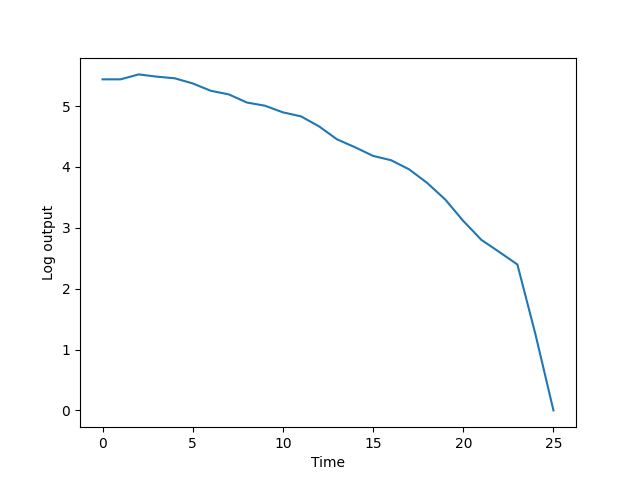
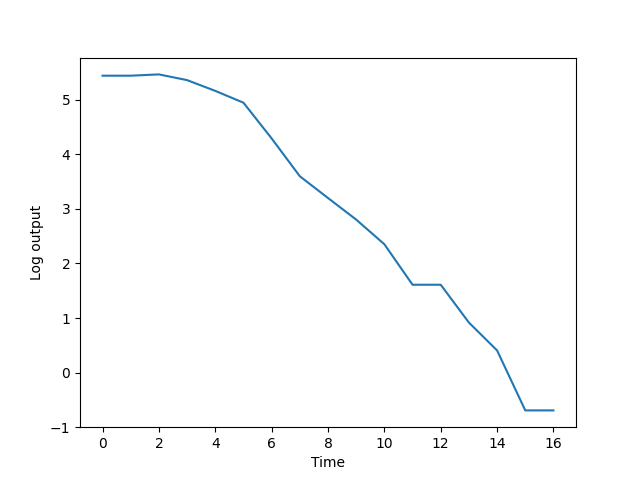
parallel

diff --git a/main.py b/main.py
@@ -5,6 +5,7 @@ BAM model from Delli Gatti 2011.
 
 # libraries
 import numpy as np
+import matplotlib.pyplot as plt
 from scipy import stats
 import pandas as pd
 
@@ -65,7 +66,7 @@ The plots of both models are saved into plots/BAM and plots/BAM_plus respectivel
 """
 
 # number of MC simulations
-MC = 5
+MC = 2
 
 # upper bound of price growth rate
 H_eta=0.1
@@ -100,7 +101,7 @@ print("--- %s minutes ---" % ((time.time() - start_time)/60))
 
 
 # simulating model 1 time without parallising 
-"""BAM_model = BAM_mc(T=1000, MC = 1, Nh=500, Nf=100, Nb=10,
+"""BAM_model = BAM_mc(T=1000, MC = MC, Nh=500, Nf=100, Nb=10,
                 plots=True, csv=False) 
 print("")
 print('--------------------------------------')
@@ -111,9 +112,8 @@ BAM_simulations =  BAM_model.simulation(theta=parameter)
 
 print("")
 print("--- %s minutes ---" % ((time.time() - start_time)/60))"""
-# 2:11 minutes for one 1 run
+# approximately 2 minutes for one 1 run
 
-BAM_simulations = np.transpose(np.load("data/simulations/BAM_10MC.npy")) 
 
 """
 # simulate plus version by setting growth parameters not to 0 !!
@@ -140,6 +140,7 @@ The first mc simulation with the parameter configuration from above is used as t
 MC = 2
 
 # pseudo empirical data
+BAM_simulations = np.transpose(np.load("data/simulations/BAM_10MC.npy")) # load pesudo random data
 BAM_obs = BAM_simulations[BAM_simulations.shape[0]-500:BAM_simulations.shape[0],0]
 
 # create new instance of the BAM model with 100 MC replications 
@@ -153,13 +154,40 @@ bounds_BAM = np.transpose(np.array([ [0.07,0.13], [0.07,0.13], [0.07,0.13], [0.0
 # initialize the sampling methods 
 BAM_posterior = sample_posterior(model = BAM_model, bounds = bounds_BAM, data_obs=BAM_obs, filter=False)
 
-grid_size = 10
+grid_size = 5
 
 # Use a plain grid to compute MC simulations of length T for each parameter combination
 start_time = time.time()
-BAM_posterior.simulation_block(grid_size, path = 'data/simulations/BAM_simulations/latin_hypercube')
+
+args = BAM_posterior.simulation_block(grid_size, path = 'data/simulations/BAM_simulations/latin_hypercube')
+
+def grid_search_parallel(args):
+            
+    # current parameter combination
+    theta_current = args['theta']
+    # simulate the model each time with a new parameter combination from the grid
+    simulations = BAM_model.simulation(theta_current)
+    
+    # current path to save the simulation to
+    current_path = args['path']
+    # save simulated data 
+    np.save(current_path, simulations)
+    
+    # plot the first mc simulation
+    plt.clf()
+    plt.plot(np.log(simulations[:,0]))
+    plt.xlabel("Time")
+    plt.ylabel("Log output")
+    plt.savefig(current_path + ".png")
+
+pool = multiprocessing.Pool(processes=4)
+pool.map_async(grid_search_parallel, args)
+pool.close()
+
 print("")
 print("--- %s minutes ---" % ((time.time() - start_time)/60))
+# without parallising: 2MC=5 minutes * 5thetas = 25 minutes
+# parallel with 4 cores: 2MC=5 minutes * 5thetas = 25 /4 = 7 minutes
 
 print("blub")
 

diff --git a/sampling.py b/sampling.py
@@ -89,8 +89,8 @@ class sample_posterior:
             plt.savefig(current_path + "png")"""
 
 
-        # parallized grid search
-        def grid_search_parallel(grid_size, theta, model, path, i):
+        # parallize the grid search: using joblib
+        """def grid_search_parallel(grid_size, theta, model, path, i):
             
             for i in range(grid_size):
 
@@ -110,14 +110,21 @@ class sample_posterior:
                 plt.xlabel("Time")
                 plt.ylabel("Log output")
                 plt.savefig(current_path + ".png")
-        
 
-        # parallize the grid search
         Parallel(n_jobs=num_cores)(
                 delayed(grid_search_parallel)
                 (grid_size, theta, self.model, path, i) for i in range(grid_size)
-                )
-        # min() arg is an empty sequence
+                )"""
+
+
+        # parallize the grid search: muliprocessing librarys
+        args = []
+        for i in range(grid_size):
+            # args.append([theta[i,:], path + '_' + str(i)])
+            args.append({'theta': theta[i,:], 'path': path + '_' + str(i)})
+        
+        return args
+
 
 
     """
